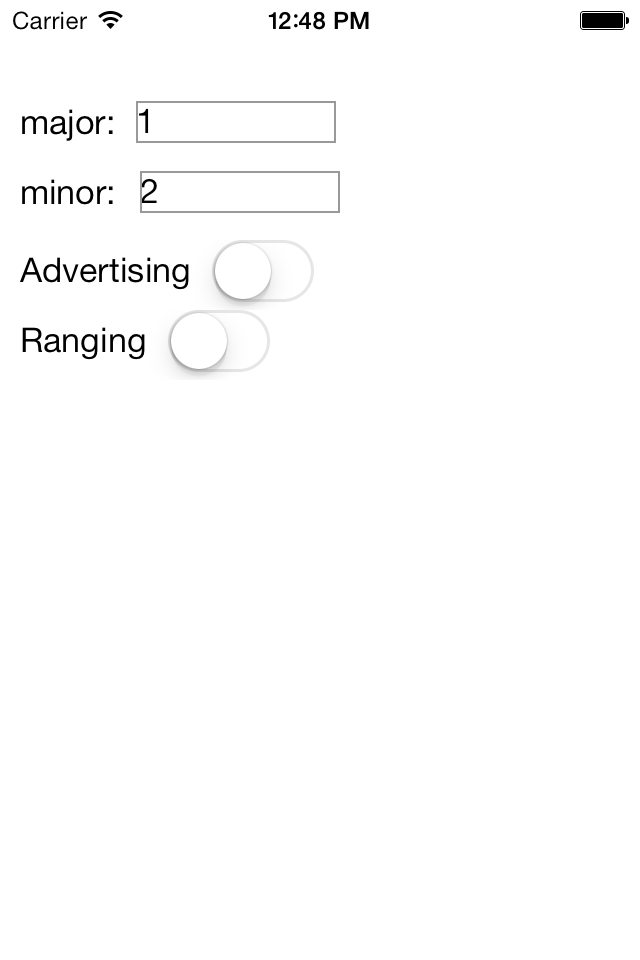
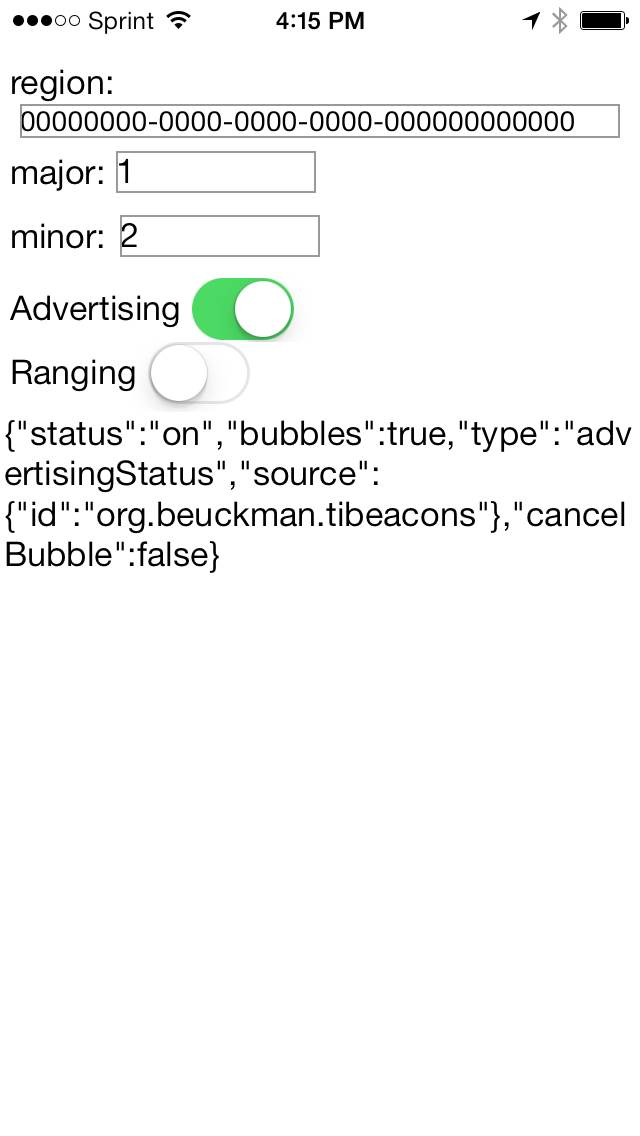
enter your own uuid and scan for mutiple regions

diff --git a/app/controllers/index.js b/app/controllers/index.js
@@ -23,7 +23,7 @@ function toggleAdvertising() {
     if ($.advertisingSwitch.value) {
 
         TiBeacons.startAdvertisingBeacon({
-            uuid : "00000000-0000-0000-0000-000000000000",
+            uuid : $.uuid.value,
             identifier : "TiBeacon Test",
             major: Math.abs(parseInt($.major.value)),
             minor: Math.abs(parseInt($.minor.value))
@@ -39,7 +39,15 @@ function toggleRanging() {
     if ($.rangingSwitch.value) {
         TiBeacons.startRangingForBeacons({
             uuid : "00000000-0000-0000-0000-000000000000",
-            identifier : "TiBeacon Test"
+            identifier : "Test Region 1"
+        });
+        TiBeacons.startRangingForBeacons({
+            uuid : "00000000-0000-0000-0000-000000000001",
+            identifier : "Test Region 2"
+        });
+        TiBeacons.startRangingForBeacons({
+            uuid : "00000000-0000-0000-0000-000000000002",
+            identifier : "Test Region 3"
         });
     } else {
         TiBeacons.stopRangingForBeacons();
